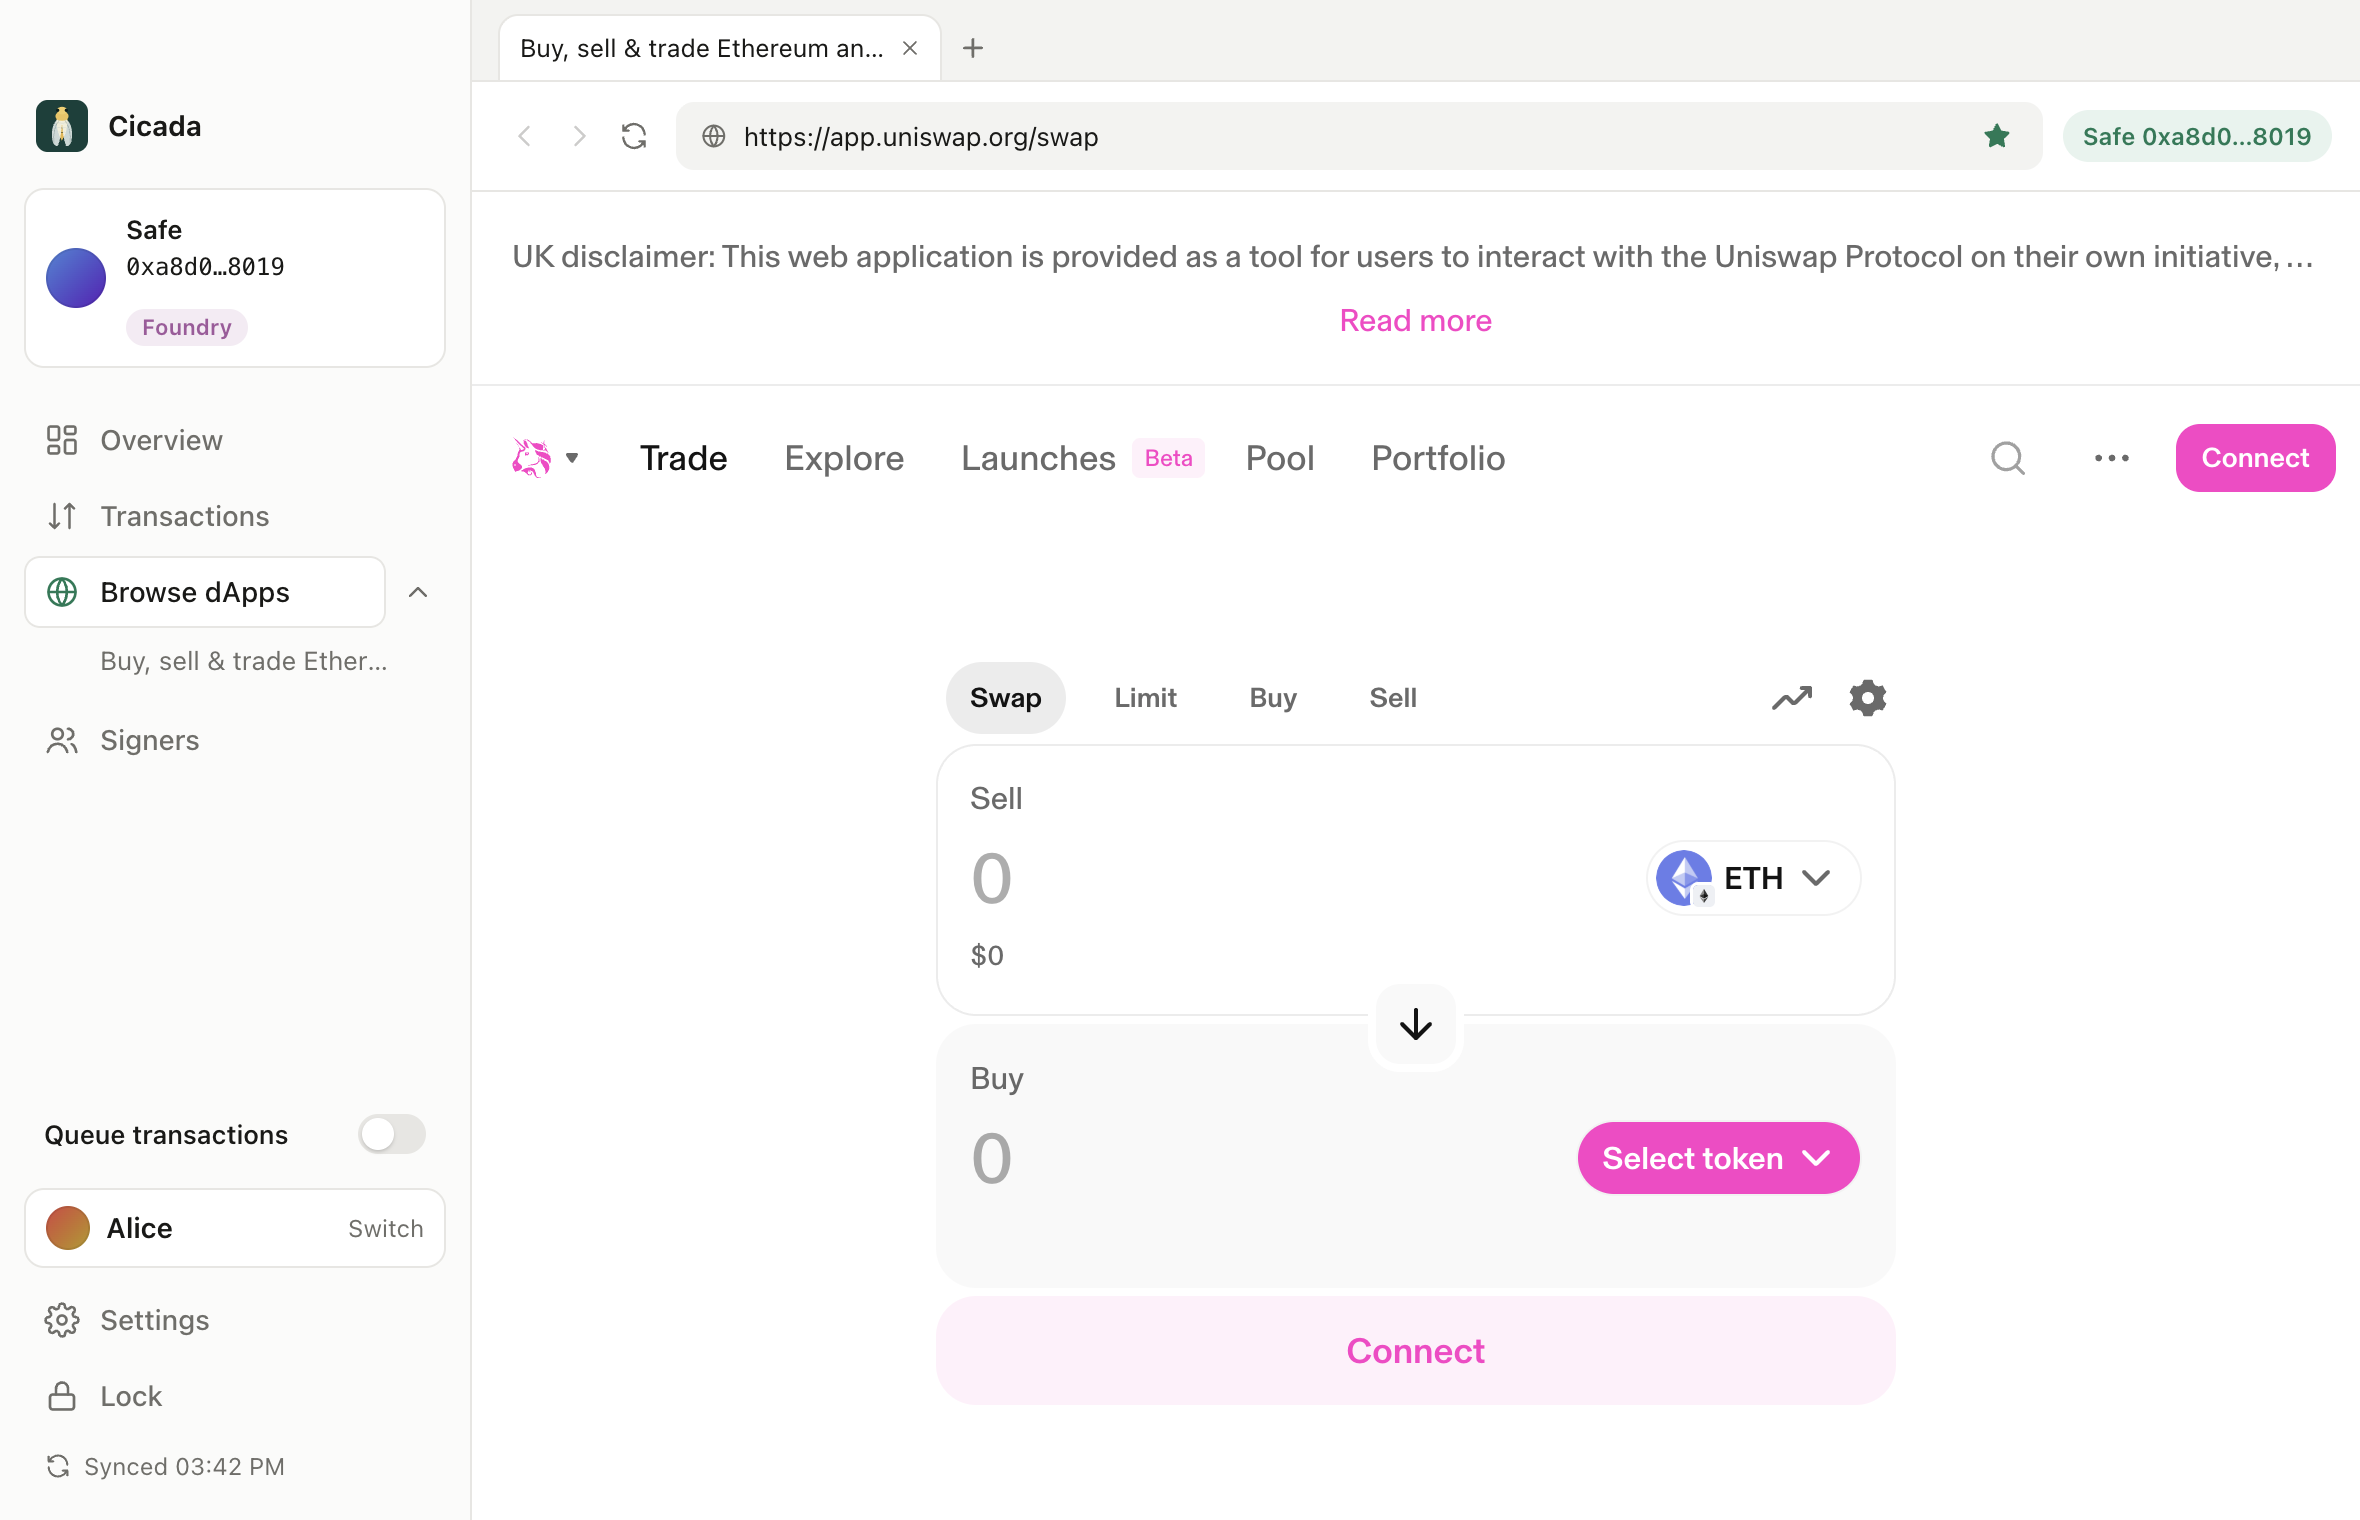
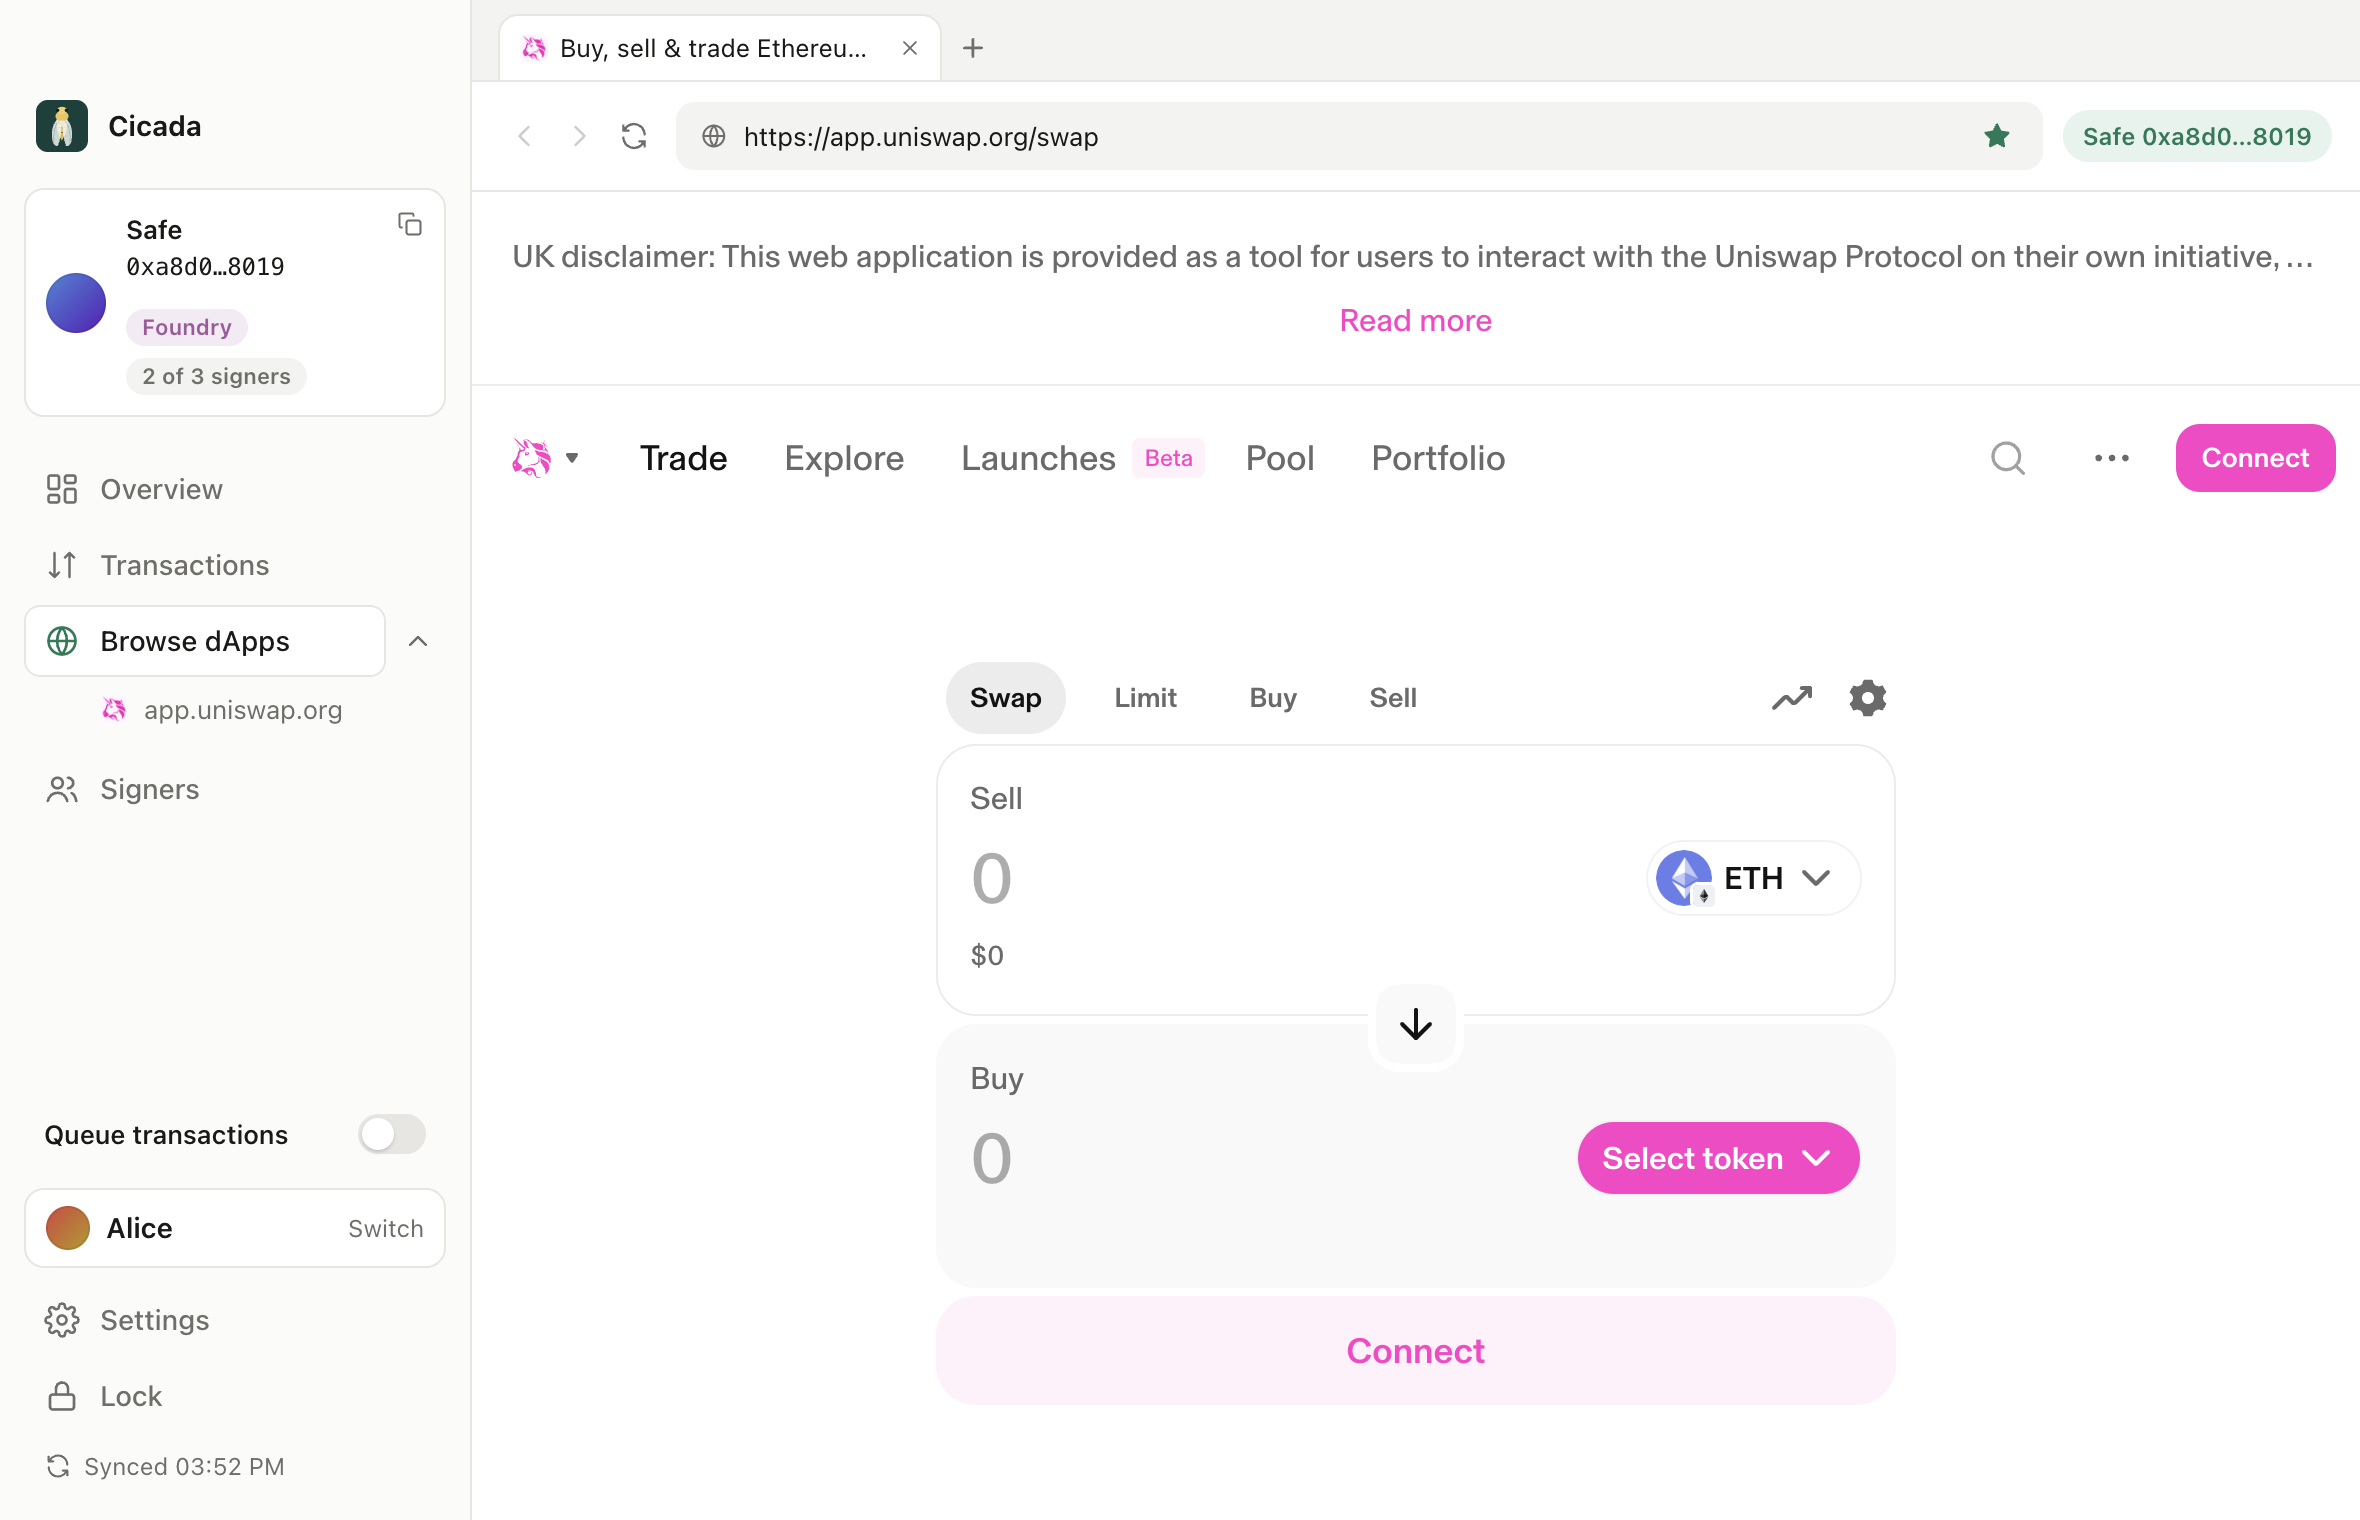
Show the Safe's threshold and copy and explorer buttons on the Safe card

diff --git a/signer/ui/src/SafeSwitcher.tsx b/signer/ui/src/SafeSwitcher.tsx
@@ -1,9 +1,9 @@
 import { useEffect, useRef, useState } from "react";
 
 import { desktop, type SafeSummary, type StatusView } from "./api";
-import { short } from "./format";
+import { explorer, short } from "./format";
 import { Skeleton } from "./Skeleton";
-import { IconPlus } from "./icons";
+import { IconCheck, IconCopy, IconExternal, IconPlus } from "./icons";
 import { Avatar } from "./ui";
 
 /** The Safe card at the top of the sidebar; in the desktop app it opens a list of the profile's Safes. */
@@ -55,13 +55,22 @@ export function SafeSwitcher({ status, onSwitched, onAdd }: { status: StatusView
         <div className="safe-chip-name">Safe</div>
         <div className="mono small">{short(status.safe)}</div>
       </div>
-      <span className={`network ${status.chainId === 1 ? "mainnet" : "testnet"}`}>{status.chainId === 1 ? "Ethereum" : status.chainName}</span>
+      <span className="safe-chip-badges">
+        <span className={`network ${status.chainId === 1 ? "mainnet" : "testnet"}`}>{status.chainId === 1 ? "Ethereum" : status.chainName}</span>
+        <span className="signers-pill" title={`${status.threshold} of ${status.owners.length} signers must sign`}>
+          {status.threshold} of {status.owners.length} signers
+        </span>
+      </span>
     </>
   );
+  const actions = <SafeActions safe={status.safe} chainId={status.chainId} />;
   if (!desktop) {
     return (
-      <div className="safe-chip" title={status.safe}>
-        {chip}
+      <div className="safe-switcher">
+        <div className="safe-chip" title={status.safe}>
+          {chip}
+        </div>
+        {actions}
       </div>
     );
   }
@@ -71,6 +80,7 @@ export function SafeSwitcher({ status, onSwitched, onAdd }: { status: StatusView
       <button type="button" className={`safe-chip ${open ? "open" : ""}`} title="Switch Safe" onClick={() => setOpen(!open)}>
         {chip}
       </button>
+      {actions}
       {open && (
         <div className="safe-menu" role="menu">
           {!safes && !error && (
@@ -132,5 +142,34 @@ export function SafeSwitcher({ status, onSwitched, onAdd }: { status: StatusView
         </div>
       )}
     </div>
+  );
+}
+
+/** Copy the Safe's address, or open it on the block explorer; beside the Safe card, which is itself a button. */
+function SafeActions({ safe, chainId }: { safe: string; chainId: number }) {
+  const [copied, setCopied] = useState(false);
+  const link = explorer(chainId, "address", safe);
+  return (
+    <span className="safe-chip-actions">
+      <button
+        type="button"
+        className="icon-button"
+        title="Copy the Safe's address"
+        aria-label="Copy the Safe's address"
+        onClick={() => {
+          void navigator.clipboard.writeText(safe).then(() => {
+            setCopied(true);
+            setTimeout(() => setCopied(false), 1200);
+          });
+        }}
+      >
+        {copied ? <IconCheck width="14" height="14" /> : <IconCopy />}
+      </button>
+      {link && (
+        <a className="icon-button" href={link} target="_blank" rel="noreferrer" title="View on the block explorer" aria-label="View on the block explorer">
+          <IconExternal />
+        </a>
+      )}
+    </span>
   );
 }

diff --git a/signer/ui/src/styles.css b/signer/ui/src/styles.css
@@ -459,10 +459,38 @@ button.large {
   font-size: 13px;
 }
 
-.network {
+.safe-chip-badges {
   grid-column: 2;
-  justify-self: start;
+  display: flex;
+  flex-wrap: wrap;
+  gap: 6px;
   margin-top: 6px;
+  /* The copy and explorer buttons only sit beside the first rows. */
+  margin-right: -48px;
+}
+
+.signers-pill {
+  font-size: 11px;
+  font-weight: 600;
+  padding: 1px 8px;
+  border-radius: 999px;
+  color: var(--muted);
+  background: var(--surface-2);
+}
+
+.safe-chip {
+  padding-right: 58px;
+}
+
+.safe-chip-actions {
+  position: absolute;
+  top: 8px;
+  right: 8px;
+  display: flex;
+  gap: 2px;
+}
+
+.network {
   font-size: 11px;
   font-weight: 600;
   padding: 1px 8px;
